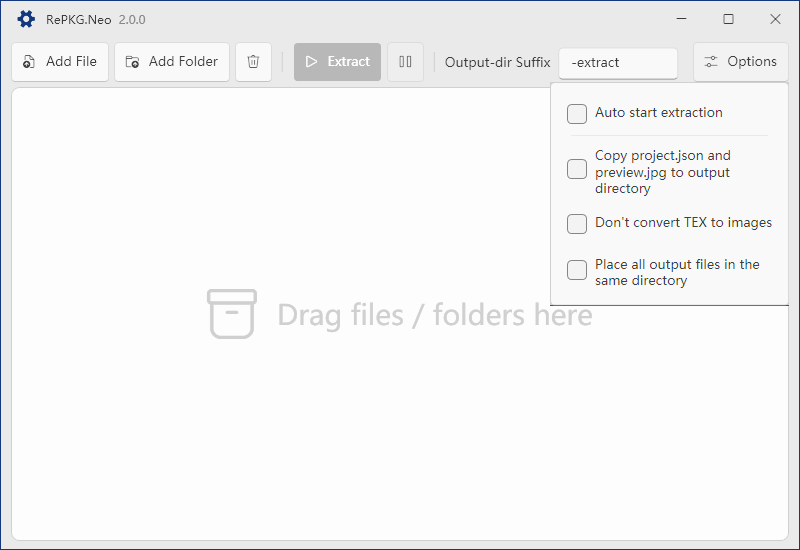
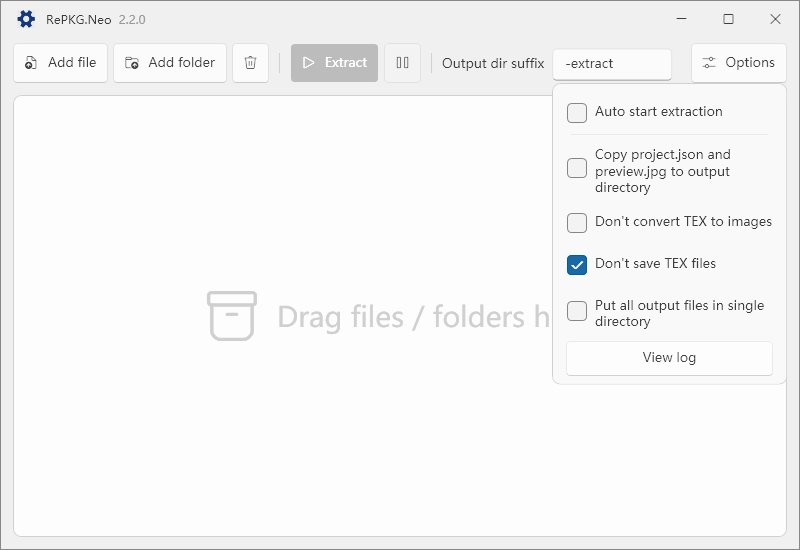
chore

diff --git a/RePKG.Neo/MainWindow.xaml b/RePKG.Neo/MainWindow.xaml
@@ -13,18 +13,17 @@
         Title="RePKG.Neo" 
         Height="550" Width="800" FontSize="13"
         MinHeight="550" MinWidth="800"
-        Background="#eaeaea" ThemeMode="Light"
+        Background="#f0f0f0" ThemeMode="Light"
         WindowStartupLocation="CenterScreen"
         RenderOptions.BitmapScalingMode="HighQuality"
-        StateChanged="Window_StateChanged" Closed="Window_Closed"
-        Activated="Window_Activated" Deactivated="Window_Deactivated">
+        StateChanged="Window_StateChanged" Closed="Window_Closed">
     <WindowChrome.WindowChrome>
         <WindowChrome
         x:Name="WindowChrome"
         CaptionHeight="36"
         UseAeroCaptionButtons="False" />
     </WindowChrome.WindowChrome>
-    <Border BorderThickness="1" BorderBrush="{StaticResource BhPrimary}" x:Name="LayoutRoot">
+    <Border BorderThickness="1" BorderBrush="#878787" x:Name="LayoutRoot">
         <Grid>
             <Grid.RowDefinitions>
                 <RowDefinition Height="auto" />
@@ -53,8 +52,8 @@
                 </TextBlock>
             </Grid>
             <!--Top panel-->
-            <DockPanel Grid.Row="1" Margin="10 5 10 8">
-                <DockPanel DockPanel.Dock="Top" Margin="0 0 0 5" LastChildFill="False">
+            <DockPanel Grid.Row="1" Margin="12 6 12 12">
+                <DockPanel DockPanel.Dock="Top" Margin="0 0 0 12" LastChildFill="False">
                     <DockPanel.Resources>
                         <ResourceDictionary>
                             <Style TargetType="lazy:Button">

diff --git a/RePKG.Neo/MainWindow.xaml.cs b/RePKG.Neo/MainWindow.xaml.cs
@@ -129,14 +129,6 @@ namespace RePKG.Neo {
                 ClosePopupWithAnimation();
         }
 
-        private void Window_Activated(object sender, EventArgs e) {
-            LayoutRoot.BorderBrush = FindResource("BhPrimary") as SolidColorBrush;
-        }
-
-        private void Window_Deactivated(object sender, EventArgs e) {
-            LayoutRoot.BorderBrush = new SolidColorBrush(Color.FromRgb(0x87, 0x87, 0x87));
-        }
-
         private void OpenPopupWithAnimation() {
             if (_isPopupAnimating) return;
             _isPopupAnimating = true;
